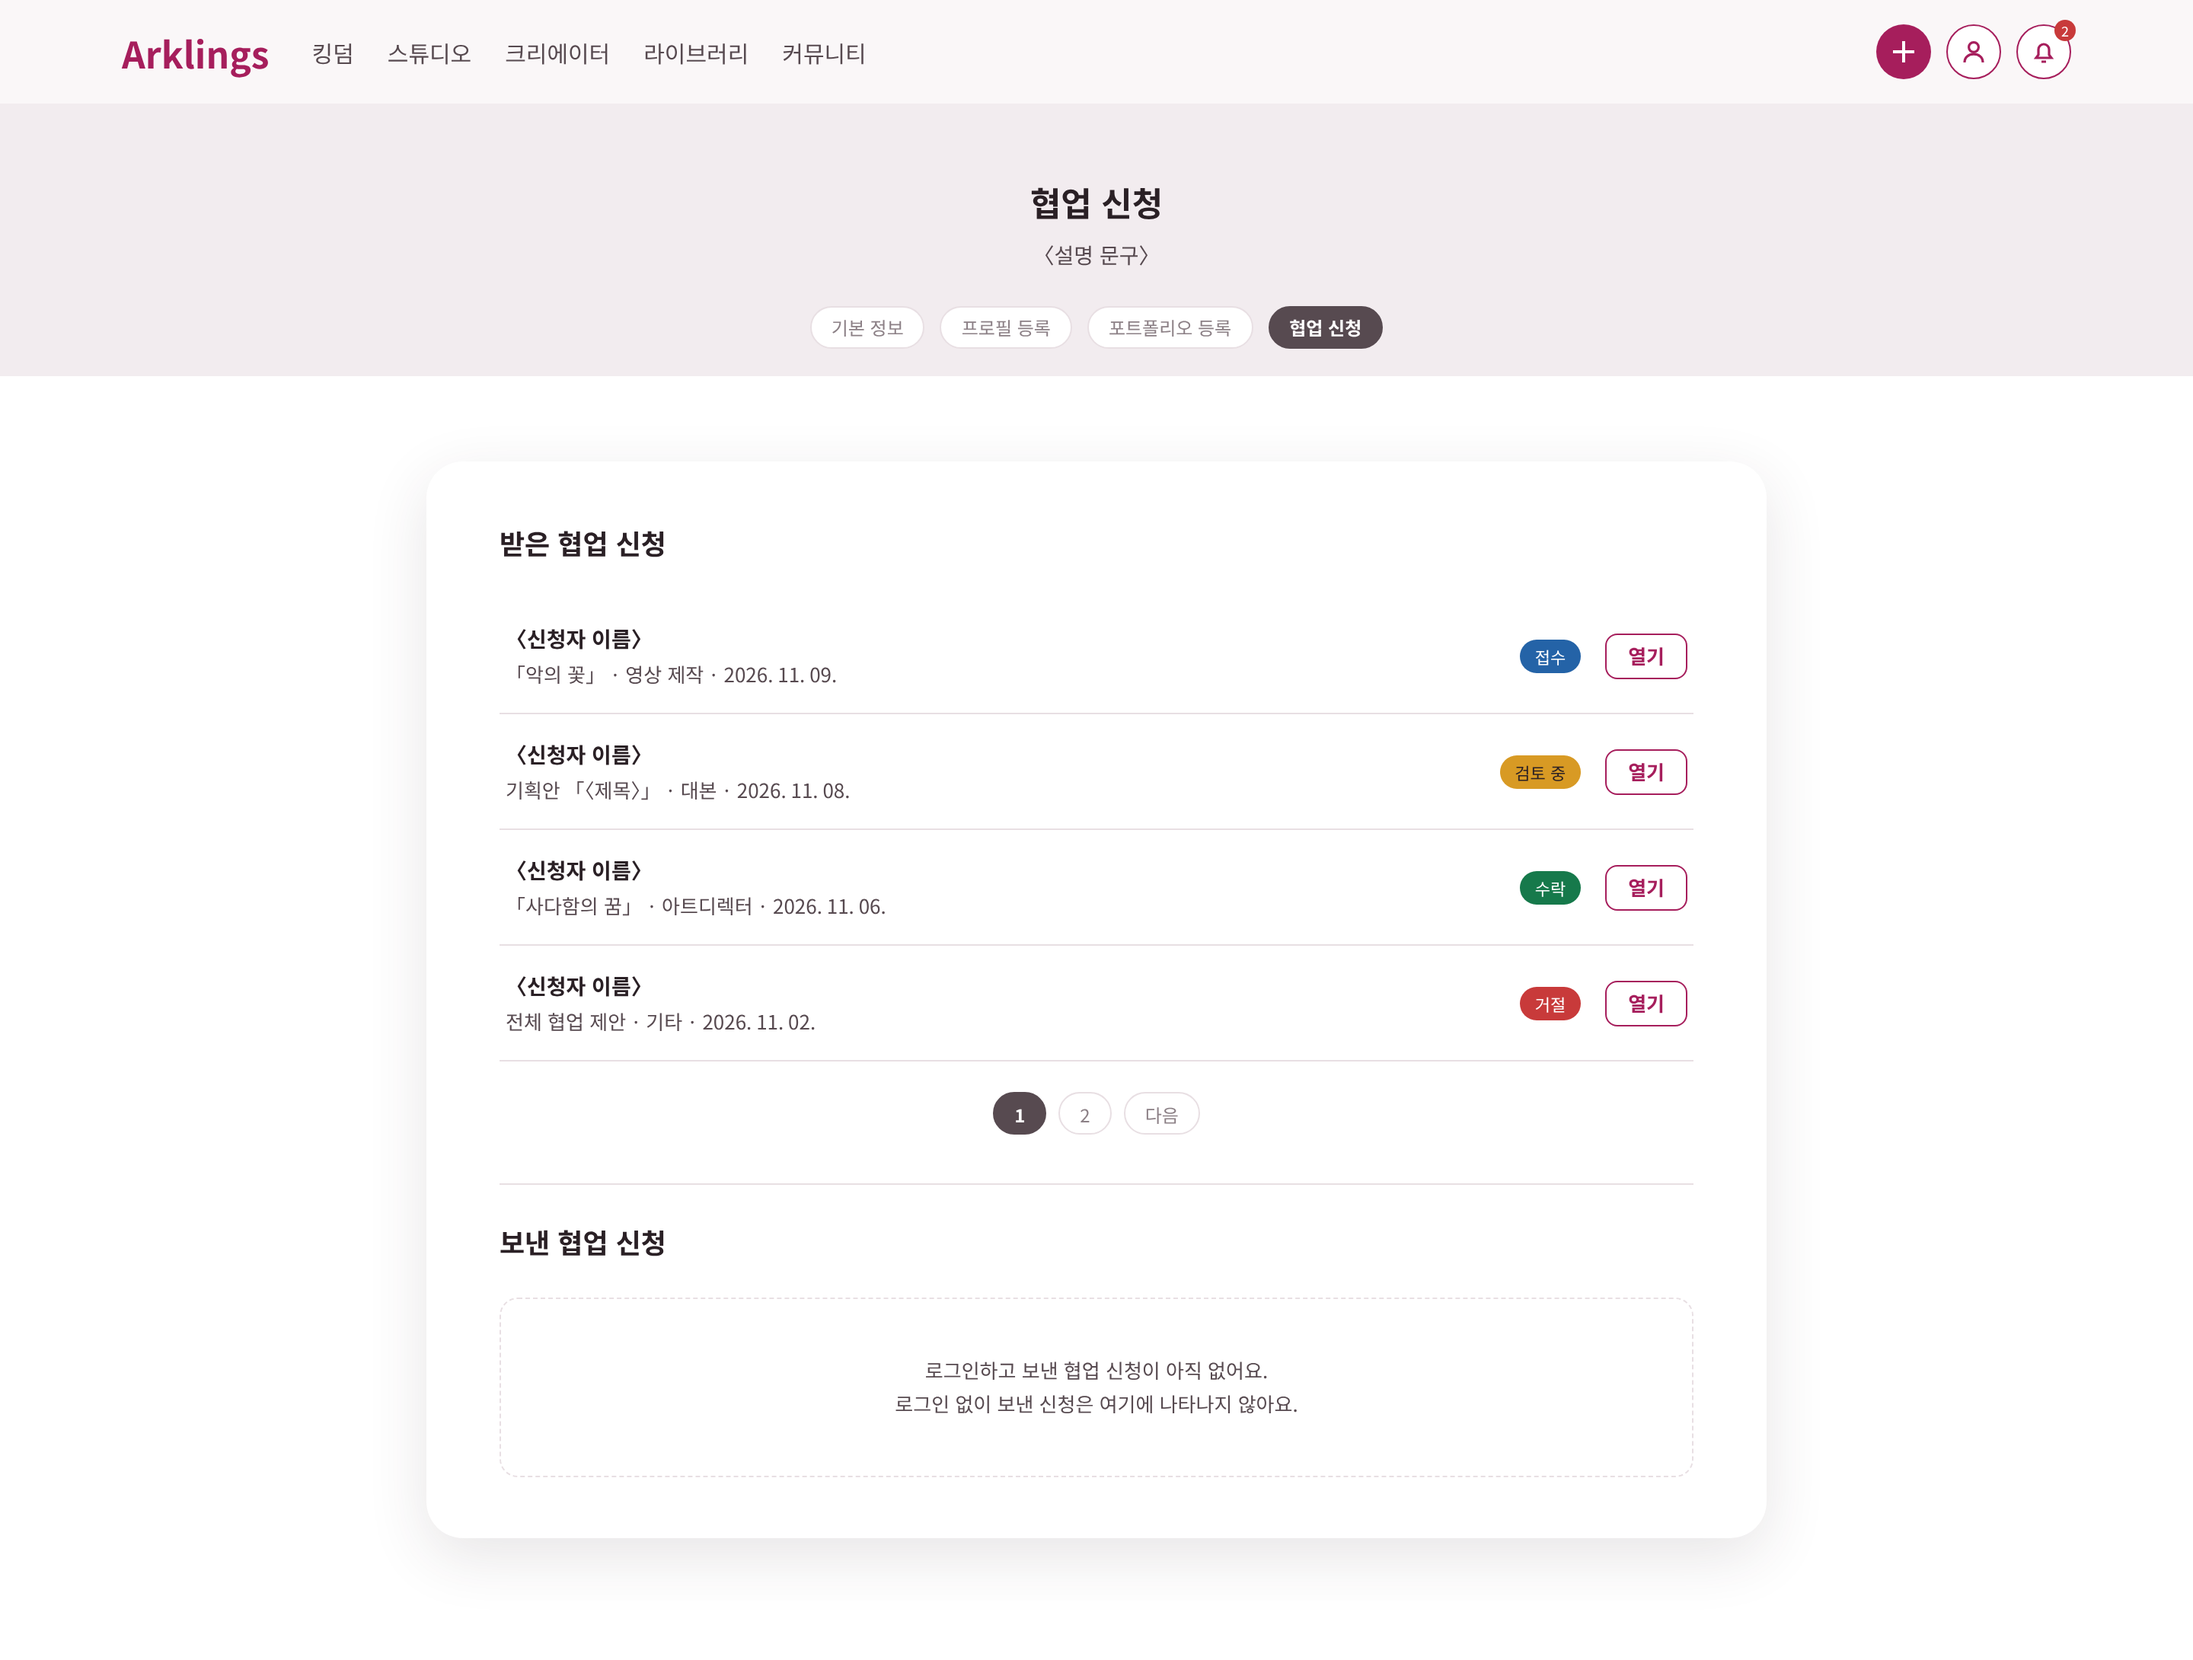
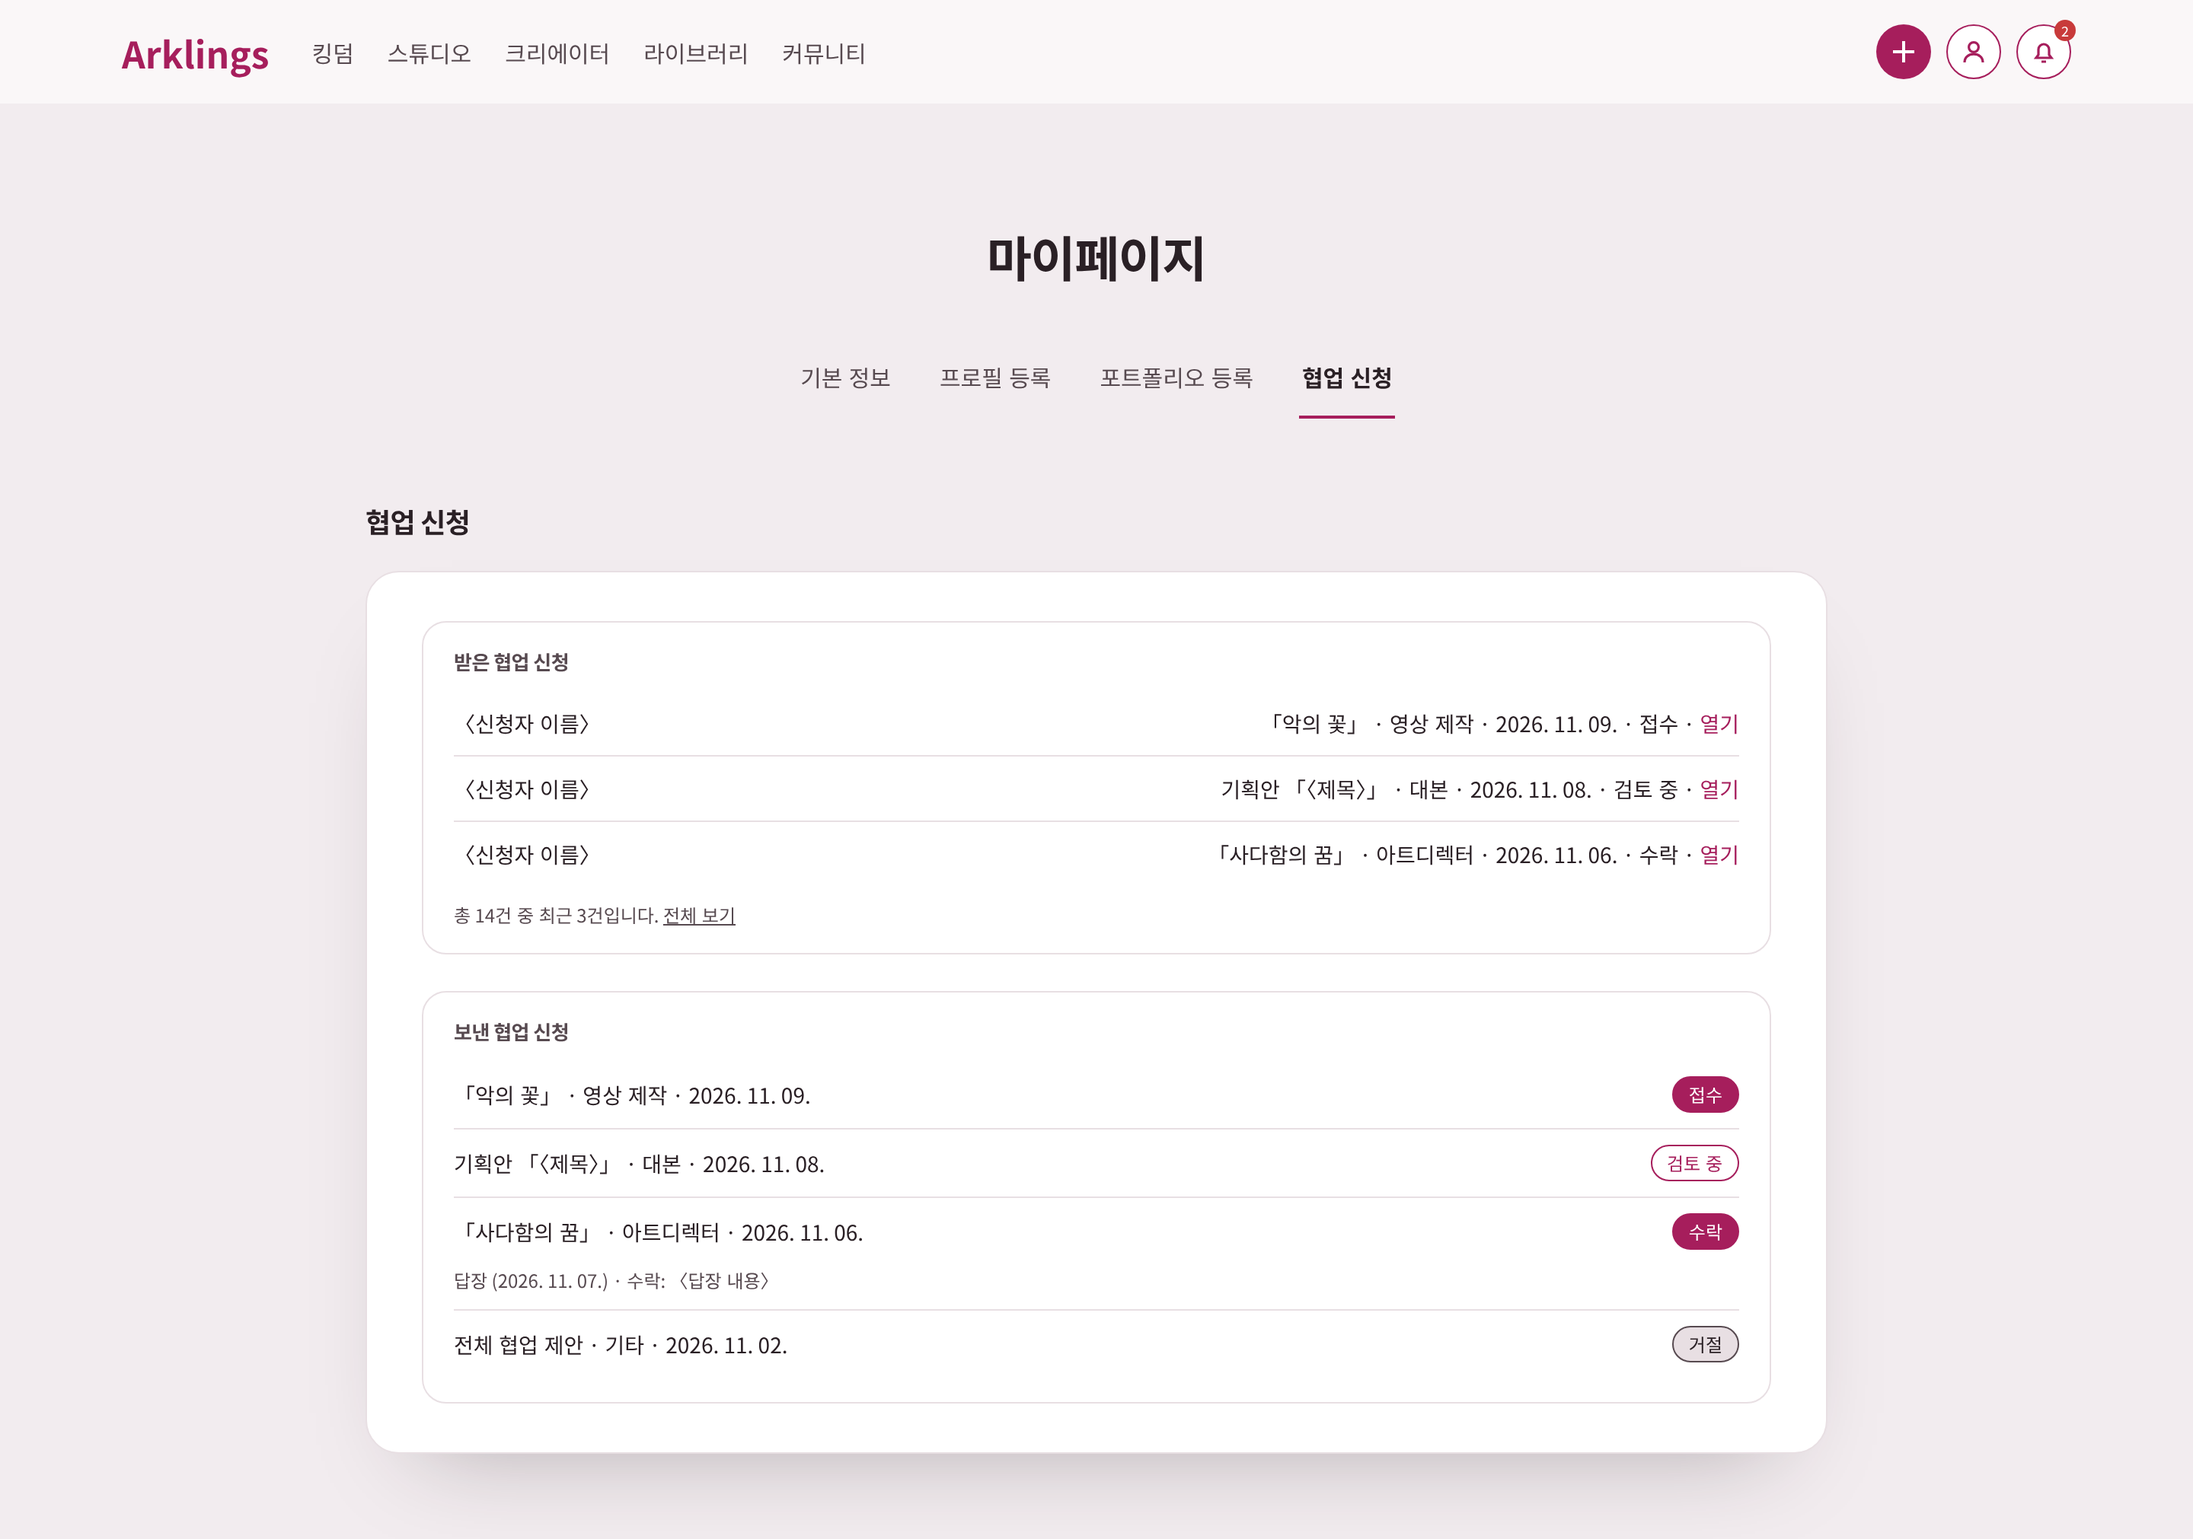
docs: 시안 12·13을 옛 /mypage 실제 모양으로 다시 그림(태그 D40 색, 제목 마이페이지)
Claude-Session: https://claude.ai/code/session_01SCW1hv5tUxq1NxtoDWFewo

diff --git a/docs/creator-pages-plan.md b/docs/creator-pages-plan.md
@@ -316,8 +316,8 @@ D27-1: 역할 표시는 작품당 **하나**(지금)로 둘지 **여러 개**를
 | `docs/mockups/06-delete-dialog.png` | 포트폴리오 삭제 확인 창(「삭제하면 되돌릴 수 없습니다.」, 취소/삭제) | 문구·색은 계획 세션이 정함. 확인 필요 |
 | `docs/mockups/07-portfolio-manage-mobile.png` | 접힌 목록 모바일(375) | 확인 필요 |
 | `docs/mockups/08-creator-detail-mobile.png` | 크리에이터 상세 모바일(375) | 확인 필요 |
-| `docs/mockups/12-mypage-basic.png` | **(취소, 2026-11-10 별뜨리님이 계획 세션의 임의 디자인이라며 거부. 코드에 쓰지 않는다. 「기본 정보」「협업 신청」은 지금 배포된 옛 /mypage 모양을 그대로 두고 로그아웃 버튼만 오른쪽 정렬한다)** 마이페이지 「기본 정보」 화면(PC). 공개 이름 칸 오른쪽에 「이름 저장」(같은 줄·오른쪽 정렬), 내 이메일, 로그인 방법(이메일·비밀번호/구글/카카오), 「회원 탈퇴」 링크와 오른쪽 정렬 「로그아웃」. 글자는 지금 `/mypage` 기본 정보 구역과 같다 | 취소 |
-| `docs/mockups/13-mypage-collab.png` | **(취소, 2026-11-10 별뜨리님 거부. 코드에 쓰지 않는다)** 마이페이지 「협업 신청」 화면(PC). 받은 협업 신청 목록(상태 태그 접수·검토 중·수락·거절 색 구분, 열기), 쪽 번호, 보낸 협업 신청(빈 상태 문구). 상단 종 드롭다운의 「받은 협업 신청 모두 보기」(10번)가 이 화면으로 온다 | 새로 그림(2026-11-09 별뜨리님 지시), 확인 필요 |
+| `docs/mockups/12-mypage-basic.png` | **(2026-11-10 다시 그림: 지금 배포된 옛 /mypage의 실제 CSS(mypage.css)로 그림. 옛 모양 그대로, 제목 「마이페이지」 32px, 탭 이름 D39, 로그아웃 오른쪽 정렬)** 마이페이지 「기본 정보」 화면(PC). 공개 이름 칸 오른쪽에 「이름 저장」(같은 줄·오른쪽 정렬), 내 이메일, 로그인 방법(이메일·비밀번호/구글/카카오), 「회원 탈퇴」 링크와 오른쪽 정렬 「로그아웃」. 글자는 지금 `/mypage` 기본 정보 구역과 같다 | 다시 그림 |
+| `docs/mockups/13-mypage-collab.png` | **(2026-11-10 다시 그림: 옛 /mypage의 「협업 신청」 구역. 받은 협업 신청은 글자 목록 그대로, 보낸 협업 신청의 상태 태그만 D40 색)** 마이페이지 「협업 신청」 화면(PC). 받은 협업 신청 목록(상태 태그 접수·검토 중·수락·거절 색 구분, 열기), 쪽 번호, 보낸 협업 신청(빈 상태 문구). 상단 종 드롭다운의 「받은 협업 신청 모두 보기」(10번)가 이 화면으로 온다 | 새로 그림(2026-11-09 별뜨리님 지시), 확인 필요 |
 
 시안과 이 문서가 다르면 먼저 보고한다. 「기획안 만들기」 버튼은 랜딩에서만 보이고 스크롤해도 따라다닌다(0-6). 04·05·09·10·11에는 넣지 않았다.
 
